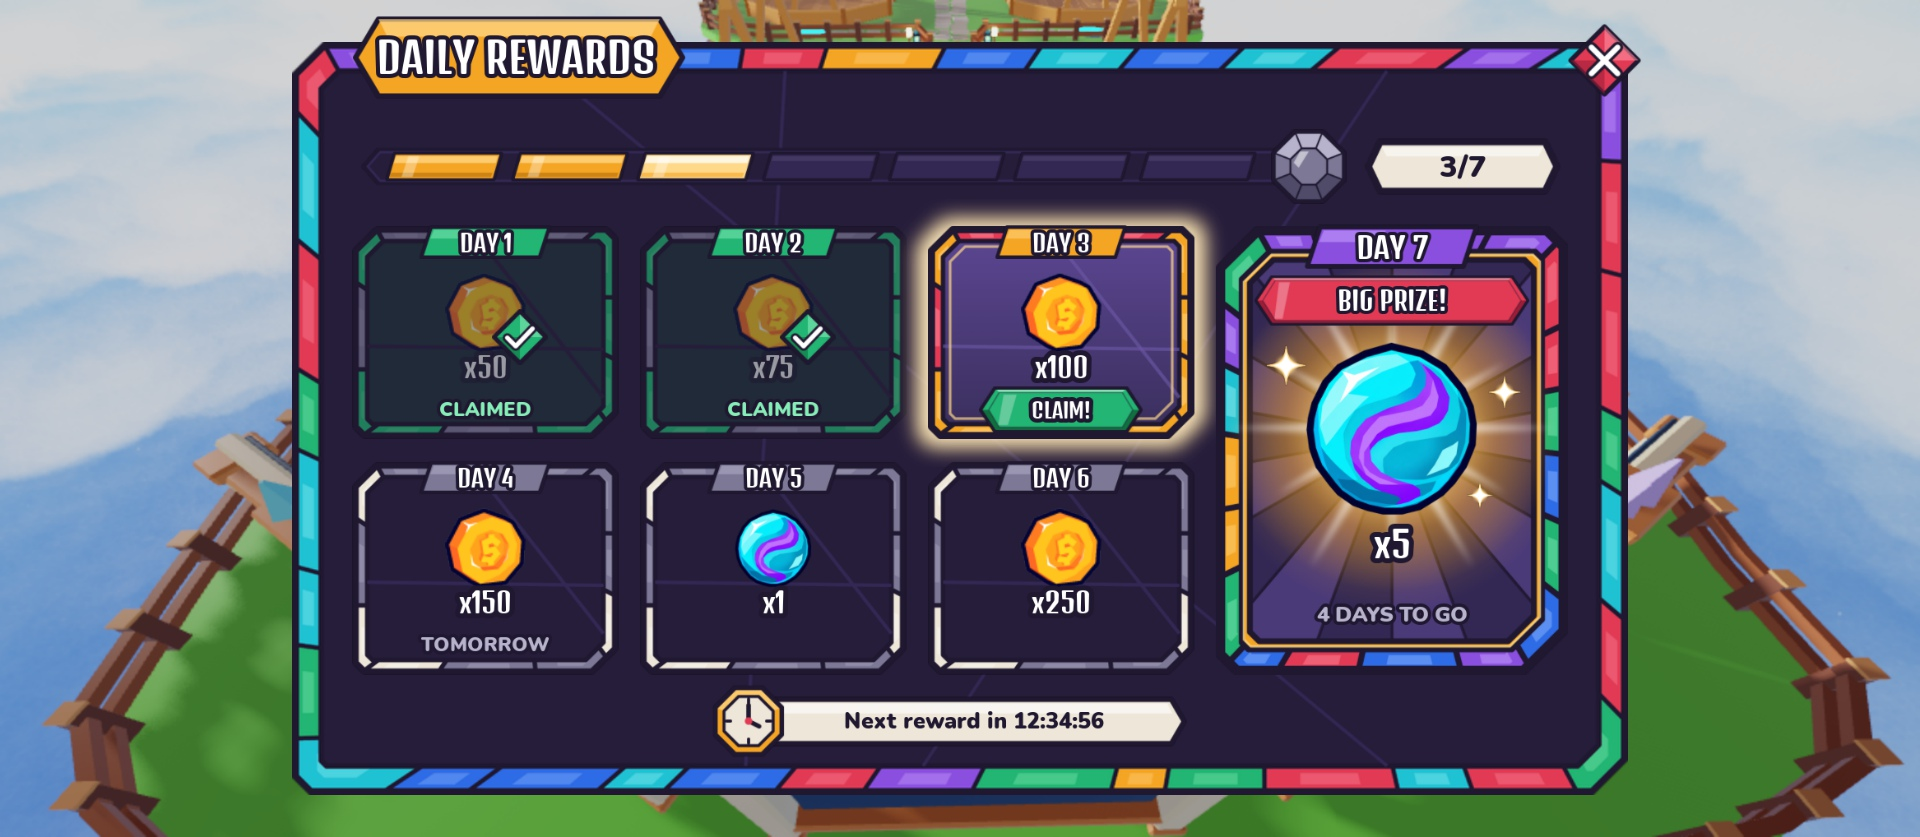
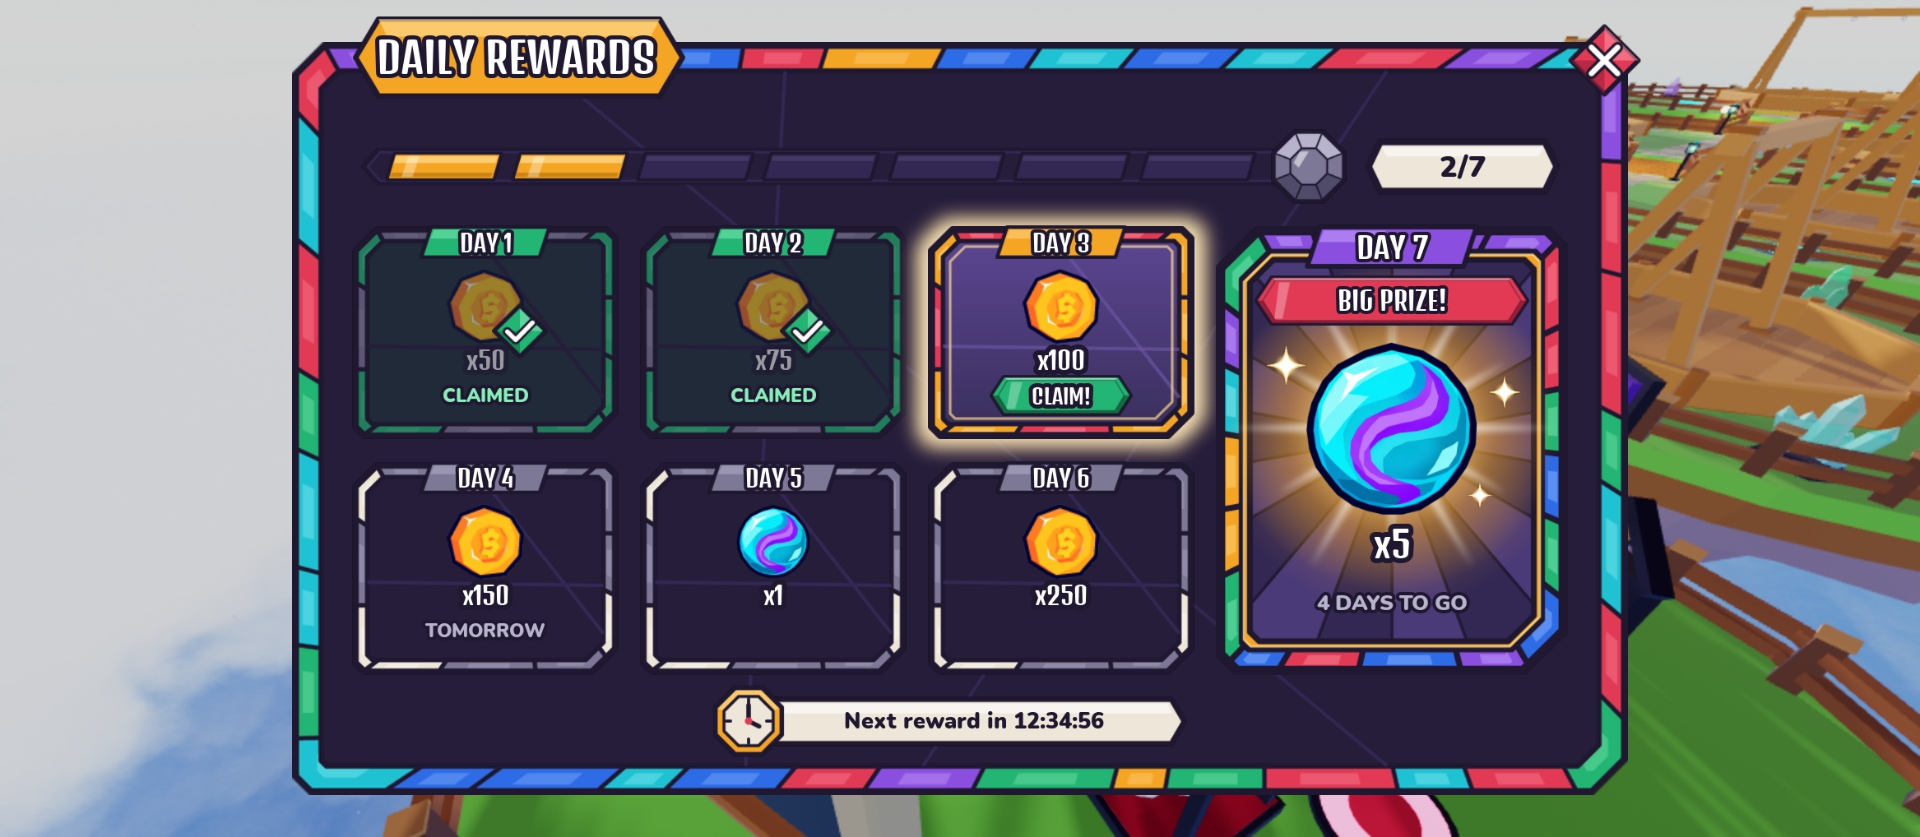
DailyRewardsScreen: CLAIM gem inside the cell pane, progress bar counts claimed days only (2/7)
Creator-approved fixes: the CLAIM gem is smaller and raised so it sits fully inside each cell's inner pane (Day 7
too), never over the lead border; segments, the x/7 count and the Day 7 gem light on claim only. Captures, doc and
DEVLOG refreshed.

diff --git a/docs/ui/screens/DailyRewardsScreen.md b/docs/ui/screens/DailyRewardsScreen.md
@@ -9,7 +9,7 @@ Rebuild with `tools/studio/build_daily_rewards_screen.luau` (Studio Edit, lock h
 `ServerStorage.UIBackup_Topbar.DailyRewardsScreen`, then replaces `StarterGui.DailyRewardsScreen`. Set `SCENARIO = "Day7"`
 at the top to preview the weekly prize's claim state; the saved design uses `"MidWeek"`.
 
-| Mid-week (saved build): Days 1–2 claimed, Day 3 today, 3/7 | Day 7 today: Days 1–6 claimed, 7/7 |
+| Mid-week (saved build): Days 1–2 claimed, Day 3 today, 2/7 | Day 7 today: Days 1–6 claimed, 6/7 |
 |---|---|
 | ![mid-week](DailyRewardsScreen_midweek.jpg) | ![day 7](DailyRewardsScreen_day7.jpg) |
 
@@ -21,11 +21,11 @@ at the top to preview the weekly prize's claim state; the saved design uses `"Mi
 |---|---|---|
 | `Panel.WindowArtwork`, `TitleBanner`, `Title` | ImageLabel / TextLabel | Inventory window art, **amber** `panel/title_amber` banner, "DAILY REWARDS" (cloned from `CollectionScreen.Panel`) |
 | `Panel.Close` | TextButton | close diamond; TopbarController closes the screen on it |
-| `Progress` | Frame | attribute `Streak` (1–7) |
+| `Progress` | Frame | attribute `Claimed` (0–7): the number of days claimed this week |
 | `Progress.Track` | ImageLabel | leaded track (`progress_track`) |
-| `Progress.Segments.Seg1`–`Seg7` | ImageLabel | one per day, attribute `State`. Image: `seg_lit` = claimed, `seg_today` = today (brighter gold), `seg_off` = locked |
-| `Progress.Gem` | ImageLabel | Day 7 gem at the end of the track: `gem_off` (slate) until Day 7 is reached, then `gem_lit` (gold). Attribute `Lit` |
-| `Progress.CountPlaque` / `Progress.Count` | ImageLabel / TextLabel | milk plaque reading "x/7" (Nunito, lead). `TextFit = false` |
+| `Progress.Segments.Seg1`–`Seg7` | ImageLabel | one per day, attribute `State` (the day's state). Image: `seg_lit` once that day is **claimed**, otherwise `seg_off` (including today, until it is claimed) |
+| `Progress.Gem` | ImageLabel | Day 7 gem at the end of the track: `gem_off` (slate) until Day 7 is **claimed**, then `gem_lit` (gold). Attribute `Lit` |
+| `Progress.CountPlaque` / `Progress.Count` | ImageLabel / TextLabel | milk plaque reading "x/7", x = days claimed (Nunito, lead). `TextFit = false` |
 | `Days.Day1`–`Day6` | Frame | attributes `Day` (n) and `State` (`Claimed` / `Today` / `Locked`) |
 | `Days.Day7` | Frame | same children as the others, plus the Day 7 extras below |
 | `DayN.Glow` | ImageLabel | amber halo behind the cell (1.26× its size). Visible only for `Today`. Pulse it later |
@@ -34,7 +34,7 @@ at the top to preview the weekly prize's claim state; the saved design uses `"Mi
 | `DayN.Icon` | ImageLabel | reward icon (placeholders `icon/coin`, `icon/marble`). `ImageTransparency 0.45` when claimed |
 | `DayN.Amount` | TextLabel | "x100" (Denk One, white + lead stroke). `TextTransparency` and stroke `0.45` when claimed |
 | `DayN.ClaimedMark` | ImageLabel | emerald check diamond (`check_badge`) over the icon's corner. Visible only for `Claimed` |
-| `DayN.ClaimButton` | ImageButton | green gem (`button/gem_emerald`) with `Caption` "CLAIM!". Visible only for `Today`. Wire its `Activated` to the claim remote |
+| `DayN.ClaimButton` | ImageButton | green gem (`button/gem_emerald`) with `Caption` "CLAIM!", sitting fully inside the cell's inner pane (never over the lead border). Visible only for `Today`. Wire its `Activated` to the claim remote |
 | `DayN.Status` | TextLabel | small line under the amount: "CLAIMED" (emerald light) for claimed days, "TOMORROW" on the next day, "n DAYS TO GO" on a locked Day 7 (slate light). Hidden when empty and on `Today` |
 | `Day7.Badge` / `Day7.BadgeText` | ImageLabel / TextLabel | ruby `banner/power_ruby` ribbon, "BIG PRIZE!" |
 | `Day7.IconGlow` | ImageLabel | gold burst behind the big icon (`glow_burst`). `ImageTransparency 0.7` when claimed. Slow-rotate it later |
@@ -53,14 +53,22 @@ at the top to preview the weekly prize's claim state; the saved design uses `"Mi
 | `ClaimedMark` | **visible** | hidden | hidden |
 | `ClaimButton` | hidden | **visible** | hidden |
 | `Status` | "CLAIMED" | hidden | "TOMORROW" / "n DAYS TO GO" / empty |
-| `Progress.SegN` | `seg_lit` | `seg_today` | `seg_off` |
+| `Progress.SegN` | `seg_lit` | `seg_off` (lights on claim) | `seg_off` |
 
 Day 7 keeps its own frame, tag and badge in every state; claimed dims its `Art`, fades `IconGlow` and hides the sparkles.
-`Progress.Gem` lights when the streak reaches Day 7.
+
+**Progress rule (approved by the creator): the bar counts claimed days only.** A segment lights when its day is
+claimed, and `Count` shows the number of days claimed. Today's segment stays unlit until the player presses CLAIM (a good
+moment for the fill animation), and `Progress.Gem` lights only when Day 7 itself is claimed. Mid-week sample: Days 1–2
+claimed, Day 3 ready → 2 segments lit, "2/7". `seg_today` (brighter gold) is kept in the asset set for a claim flash but
+is not a resting state.
 
 ## Layout (Scale, fractions of the parent)
 
 - `Progress`: pos (0.05, 0.118), size (0.9, 0.095). Track 0–0.79, gem centred at 0.79, count plaque centred at 0.918.
+- Inside a small cell (fractions of the cell): tag centred at y 0.075 (it rides the top lead line), icon 0.375, amount
+  0.625, CLAIM gem / status 0.795. The gem spans y 0.70–0.89 and x 0.23–0.77, inside the pane (0.07–0.93) and clear of
+  today's gold inner line (0.90). On Day 7 the gem spans y 0.77–0.91 and x 0.20–0.80, inside its pane (0.075–0.925).
 - `Days`: pos (0.045, 0.245), size (0.91, 0.595). Columns 1–3 are 0.2192 wide with 0.01758 gaps; Day 7 fills the rest
   (0.2895). Rows are 0.475 tall with a 0.05 gap. A small cell is 1.24 : 1, Day 7 is 0.778 : 1; the art is drawn at those
   aspects (Stretch is safe).
@@ -99,5 +107,5 @@ and `icon/marble`.
 - Animation ideas for later: pulse `Glow` and bob the `ClaimButton` on today; rotate `Day7.IconGlow`; twinkle the sparkles;
   on claim, fill the segment left to right, then pop in `ClaimedMark`.
 - The phone and tablet scaling pass is still to do. At 1920×1080 a small cell is about 330×265 px, and the CLAIM gem about
-  205×59 px.
+  178×51 px.
 - The creator saves the place in Studio.

diff --git a/docs/logs/DEVLOG.md b/docs/logs/DEVLOG.md
@@ -27,6 +27,7 @@ Problems / questions for the user:
 ## 2026-10-19 — Claude — DailyRewardsScreen design (top bar menus)
 Done:
 - Designed `StarterGui.DailyRewardsScreen`: an Inventory-size Stained Glass window with an amber banner. A segmented progress bar sits under the title (7 slanted glass segments on a leaded track, a Day 7 gem at the end, an "x/7" plaque). Below it is a 4×2 grid: Days 1–6 are six equal cells, and Day 7 is one tall cell spanning both rows (every-colour mosaic, gold rim, leaded sunburst, glow burst, sparkles, "BIG PRIZE!" ribbon). Each cell has claimed (spent emerald glass, check diamond, faded reward), today (amber glass, halo, green CLAIM! gem) and locked (plain slate) looks. A "Next reward in …" timer plaque is at the bottom. Rebuild: `tools/studio/build_daily_rewards_screen.luau` (set `SCENARIO = "Day7"` to preview the weekly claim).
+- Creator approved it with two fixes, now applied. The CLAIM gem sits fully inside the cell pane (smaller, raised, clear of the lead border; Day 7's too). The progress bar counts **claimed days only**, so the mid-week sample shows 2 lit segments and "2/7", and the gem lights only once Day 7 is claimed. Captures refreshed.
 - New art from `tools/ui/daily_rewards_art.py` → `assets/ui/screens/daily_rewards`: 16 pieces (cells, glows, check, track, segments, gems, sparkle, timer plaque, clock), uploaded as Decals to group 11116787. The keys are in `UIAssets` (`screens/daily_rewards/*`). Captures and the element map are in `docs/ui/screens/DailyRewardsScreen.md`.
 Next:
 - Wire it later: a controller sets each `DayN` state, `Progress` segments and gem, `Count` and `Timer`, and fires the claim from `DayN.ClaimButton`. Then animations and the phone/tablet scaling pass. The real reward table is still to be decided (the icons and amounts are placeholders).
